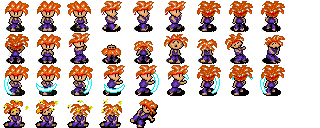
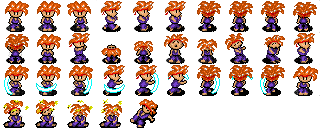
Last changes of eLeDe on saturday

Changed region(s): [[0.9062, 0.0, 1.0, 0.75]]

diff --git a/core/src/ludum/mighty/ld36/actors/BasicMaruto.java b/core/src/ludum/mighty/ld36/actors/BasicMaruto.java
@@ -5,6 +5,7 @@ import java.util.Vector;
 import ludum.mighty.ld36.actions.Action;
 import ludum.mighty.ld36.settings.DefaultValues;
 import ludum.mighty.ld36.textTerminal.CommandProcessor;
+import ludum.mighty.ld36.textTerminal.TextTerminal;
 
 import com.badlogic.gdx.Gdx;
 import com.badlogic.gdx.Input;
@@ -38,6 +39,7 @@ public class BasicMaruto extends Actor implements BasicActor {
 	public Animation animUP, animDOWN, animLEFT, animRIGHT,
 	                 animPunchUP, animPunchDOWN, animPunchLEFT, animPunchRIGHT,
 	                 animBlockUP, animBlockDOWN, animBlockLEFT, animBlockRIGHT,
+	                 animStopUP, animStopDOWN, animStopLEFT, animStopRIGHT,
 	                 animBirds, anim;
 	public int KID_WIDTH = 32;
 	public int KID_HEIGHT = 32;
@@ -48,8 +50,14 @@ public class BasicMaruto extends Actor implements BasicActor {
 	private boolean moveFlag = false;
 	
 	private CommandProcessor commandProcessor;
+	private TextTerminal textTerminal;
 	
-	public BasicMaruto(CommandProcessor cm) {
+	private boolean stopFlag;
+	
+	public BasicMaruto(TextTerminal tt, CommandProcessor cm) {
+		
+		textTerminal = tt;
+		stopFlag = false;
 		
 		facing = DefaultValues.ABSOLUTE_DIRECTIONS.SOUTH;
 		commandProcessor = cm;
@@ -67,6 +75,8 @@ public class BasicMaruto extends Actor implements BasicActor {
         
         kidTRflip[1][2].flip(true, false);
         
+        kidTRflip[1][9].flip(true, false);
+        
 		// Create animations for movement 
 		animDOWN  = new Animation(0.25f, kidTR[0][0], kidTR[0][1], kidTR[0][2], kidTR[0][1]);
 		animRIGHT  = new Animation(0.25f, kidTR[0][3], kidTR[0][4], kidTR[0][5], kidTR[0][4]);
@@ -82,6 +92,12 @@ public class BasicMaruto extends Actor implements BasicActor {
 		animBlockRIGHT = new Animation(0.25f, kidTR[0][4], kidTR[1][2]);
 		animBlockUP = new Animation(0.25f, kidTR[0][7], kidTR[1][0]);
 		animBlockLEFT = new Animation(0.25f, kidTRflip[0][4], kidTRflip[1][2]);
+		
+		animStopDOWN = new Animation(0.25f, kidTR[0][1], kidTR[2][9]);
+		animStopRIGHT = new Animation(0.25f, kidTR[0][4], kidTR[1][9]);
+		animStopUP = new Animation(0.25f, kidTR[0][7], kidTR[0][9]);
+		animStopLEFT = new Animation(0.25f, kidTRflip[0][4], kidTRflip[1][9]);
+		
 		
 		
 		animBirds = new Animation(0.25f, kidTRflip[3][0], kidTRflip[3][1], kidTRflip[3][2], kidTRflip[3][3]);
@@ -103,10 +119,33 @@ public class BasicMaruto extends Actor implements BasicActor {
 		super.act(delta);
 		if (this.getActions().size == 0) {
 			moveFlag = false;
-		}
+			
+			// Animacion de parado
+				switch (getfacing()) {
+				case NORTH:
+					anim = animStopUP;
+					break;
+				case EAST:
+					anim = animStopRIGHT;
+					break;
+				case SOUTH:
+					anim = animStopDOWN;
+					break;
+				case WEST:
+					anim = animStopLEFT;
+					break;
+				}
+				mba = new MoveByAction();
+				mba.setAmount(0, 0);
+				mba.setDuration(5f);
+				this.addAction(mba);
+				moveFlag = true;
+				stopFlag = true;
+			}
+		
 		//System.out.println("BasicMaruto: " + this.getX() + " " + this.getY());
 		
-	}
+}
 	
 	@Override
 	public void draw(Batch batch, float alpha) {
@@ -273,96 +312,123 @@ public class BasicMaruto extends Actor implements BasicActor {
 		
 	
 	public void checkAction() {
-		if (this.getActions().size > 0) return;
+		if (this.getActions().size > 1) return;
+		if ((this.getActions().size == 1)&&(stopFlag == true)) {
 		Action ac = commandProcessor.getNextAction();
+		textTerminal.enable();
 		if (ac == null) return;
 		switch (ac.gettype()) {
 		case WALK:
-			if (moveFlag == false) {
+			//if (moveFlag == false) {
 				mba = new MoveByAction();
-				if (anim == animDOWN) {
-					mba.setAmount(0, -DefaultValues.TILESIZE);
-				} else if (anim == animUP) {
+				switch (getfacing()) {
+				case NORTH:
+					anim = animUP;
 					mba.setAmount(0, DefaultValues.TILESIZE);
-				} else if (anim == animRIGHT) {
-					mba.setAmount(DefaultValues.TILESIZE, 0);
-				} else if (anim == animLEFT) {
+					break;
+				case EAST:
+					anim = animRIGHT;
+					mba.setAmount(DefaultValues.TILESIZE, 0);				
+					break;
+				case SOUTH:
+					anim = animDOWN;
+					mba.setAmount(0, -DefaultValues.TILESIZE);
+					break;
+				case WEST:
+					anim = animLEFT;
 					mba.setAmount(-DefaultValues.TILESIZE, 0);
+					break;
 				}
 					mba.setDuration(1f);
 					this.addAction(mba);
 
 				moveFlag = true;
 
-			}			
+			//}			
 			break;
 		case MOONWALK:
-			if (moveFlag == false) {
-				mba = new MoveByAction();
-				if (anim == animDOWN) {
-					mba.setAmount(0, DefaultValues.TILESIZE);
-				} else if (anim == animUP) {
-					mba.setAmount(0, -DefaultValues.TILESIZE);
-				} else if (anim == animRIGHT) {
-					mba.setAmount(-DefaultValues.TILESIZE, 0);
-				} else if (anim == animLEFT) {
-					mba.setAmount(DefaultValues.TILESIZE, 0);
-				}
-					mba.setDuration(1f);
-					this.addAction(mba);
+			//if (moveFlag == false) {
+			mba = new MoveByAction();
+			switch (getfacing()) {
+			case NORTH:
+				anim = animUP;
+				mba.setAmount(0, -DefaultValues.TILESIZE);
+				break;
+			case EAST:
+				anim = animRIGHT;
+				mba.setAmount(-DefaultValues.TILESIZE, 0);				
+				break;
+			case SOUTH:
+				anim = animDOWN;
+				mba.setAmount(0, DefaultValues.TILESIZE);
+				break;
+			case WEST:
+				anim = animLEFT;
+				mba.setAmount(DefaultValues.TILESIZE, 0);
+				break;
+			}
+			
+			mba.setDuration(1f);
+			this.addAction(mba);
 
-				moveFlag = true;
+			moveFlag = true;
 
-			}			
+			//}			
 			break;
 		case PUNCH:
 
-				if (moveFlag == false) {
-				if (anim == animDOWN) {
-					anim = animPunchDOWN;
-				} else if (anim == animUP) {
-					anim = animPunchUP;
-				} else if (anim == animRIGHT) {
-					anim = animPunchRIGHT;
-				} else if (anim == animLEFT) {
-					anim = animPunchLEFT;
-				}
+				//if (moveFlag == false) {
+			switch (getfacing()) {
+			case NORTH:
+				anim = animPunchUP;
+				break;
+			case EAST:
+				anim = animPunchRIGHT;
+				break;
+			case SOUTH:
+				anim = animPunchDOWN;
+				break;
+			case WEST:
+				anim = animPunchLEFT;
+				break;
+			}
 				mba = new MoveByAction();
 				mba.setAmount(0, 0);
 				mba.setDuration(1f);
 				this.addAction(mba);
 				
 				moveFlag = true;
-				}
+				//}
 				break;
 		case TURN:
-				if (moveFlag == false) {
+				//if (moveFlag == false) {
 					this.rotate(ac.getdirection());
 					switch (getfacing()) {
 					case NORTH:
-						anim = animUP;
+						anim = animStopUP;
 						break;
 					case EAST:
-						anim = animRIGHT;
+						anim = animStopRIGHT;
 						break;
 					case SOUTH:
-						anim = animDOWN;
+						anim = animStopDOWN;
 						break;
 					case WEST:
-						anim = animLEFT;
+						anim = animStopLEFT;
 						break;
 					}
 					mba = new MoveByAction();
 					mba.setAmount(0, 0);
 					mba.setDuration(1f);
 					this.addAction(mba);
-				}
+				//}
+				break;
 		}
 		
 
 
 			
-		
+		}
 		
 	}
 }

diff --git a/core/src/ludum/mighty/ld36/world/MightyWorld.java b/core/src/ludum/mighty/ld36/world/MightyWorld.java
@@ -111,7 +111,7 @@ public class MightyWorld {
 	// Creates all players
 	private void initPlayers() {
 		// Add playable player
-		basicMaruto = new BasicMaruto(textTerminal.commandProcessor);
+		basicMaruto = new BasicMaruto(textTerminal, textTerminal.commandProcessor);
 		// set the xy for the tiles and stage position
 		basicMaruto.setTilePosX(20);
 		basicMaruto.setTilePosY(20);
